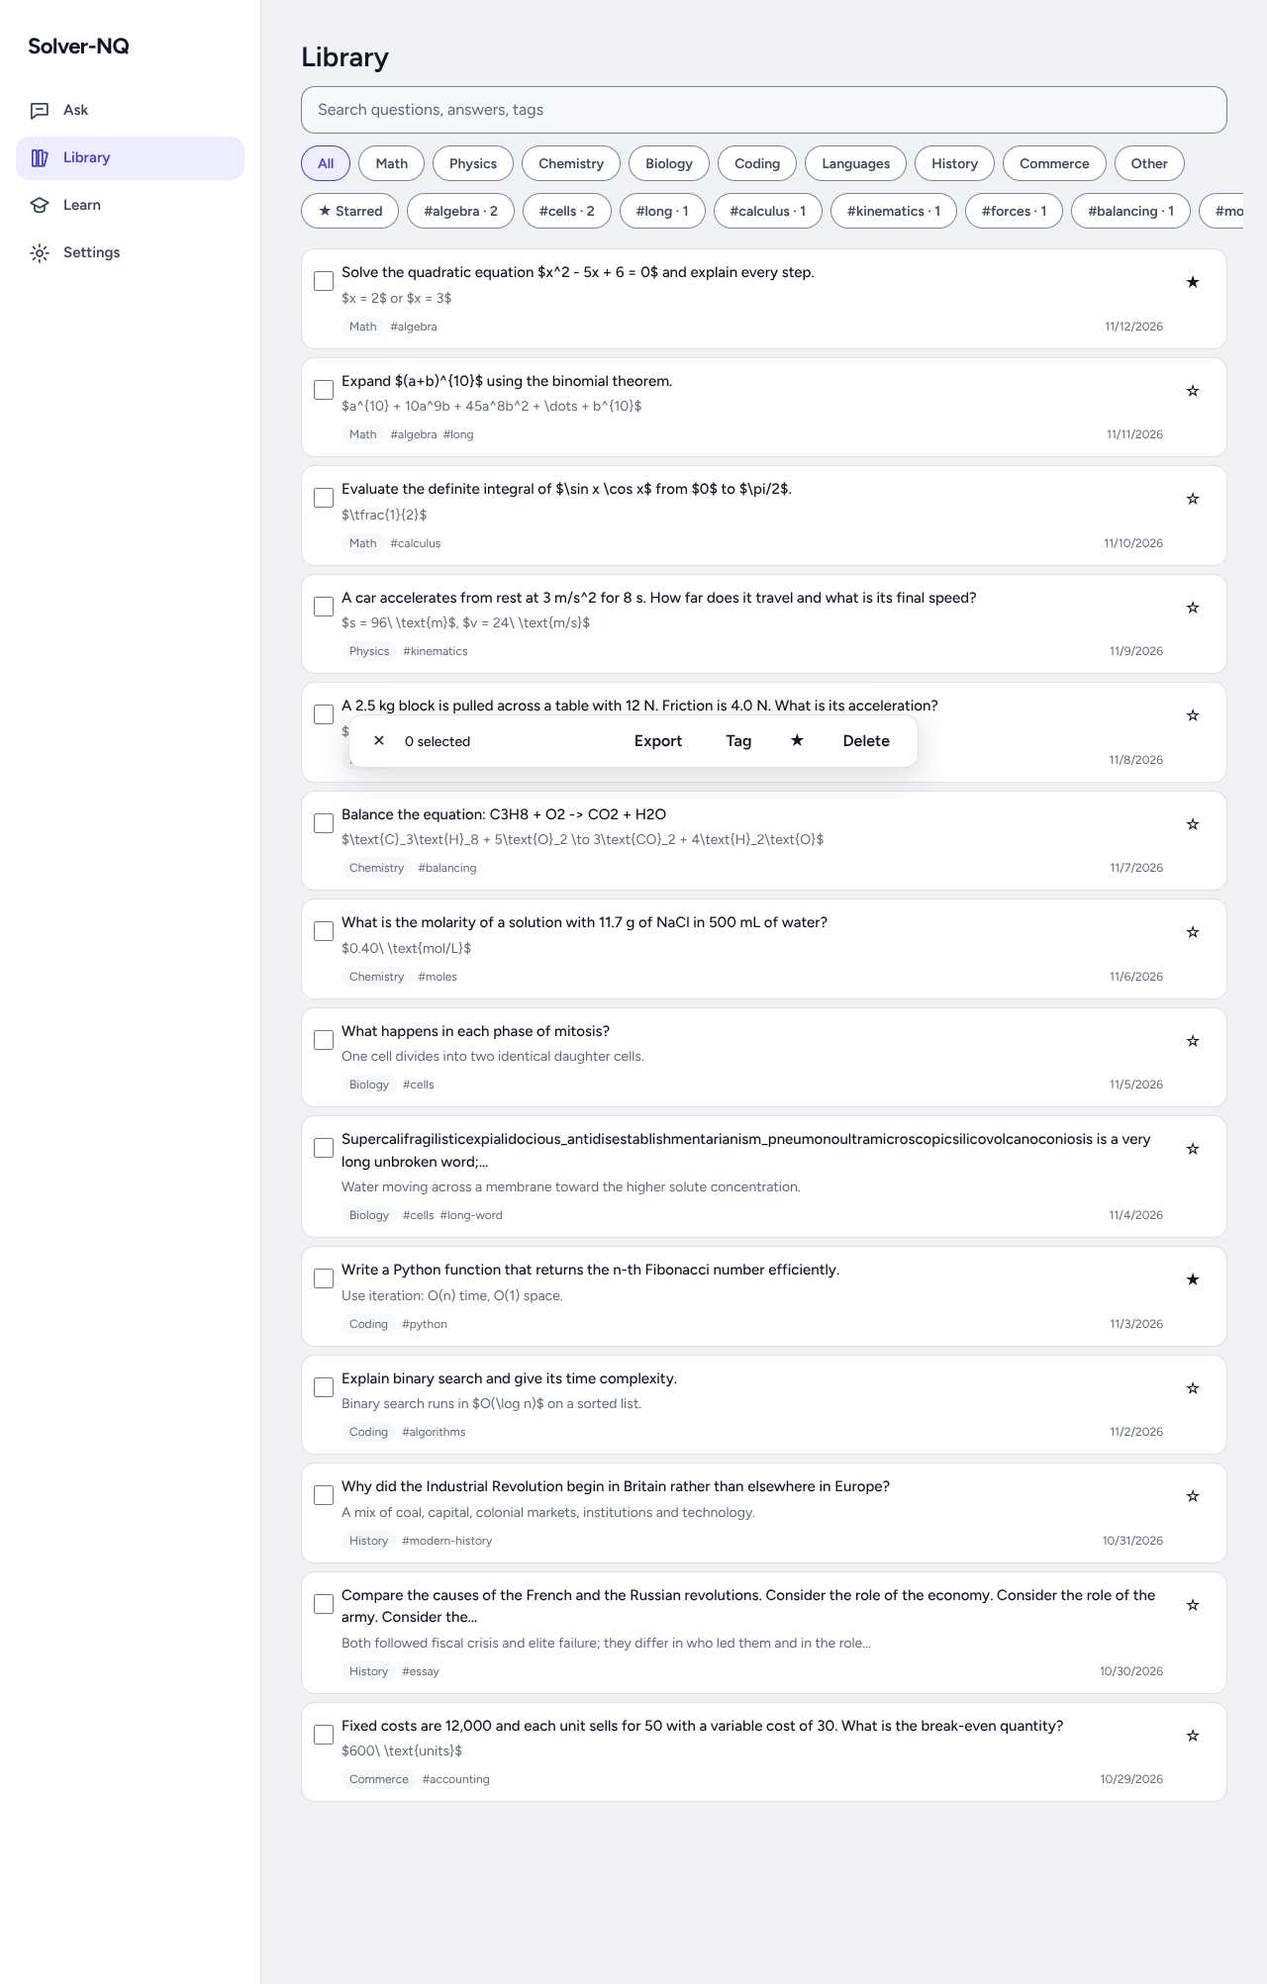
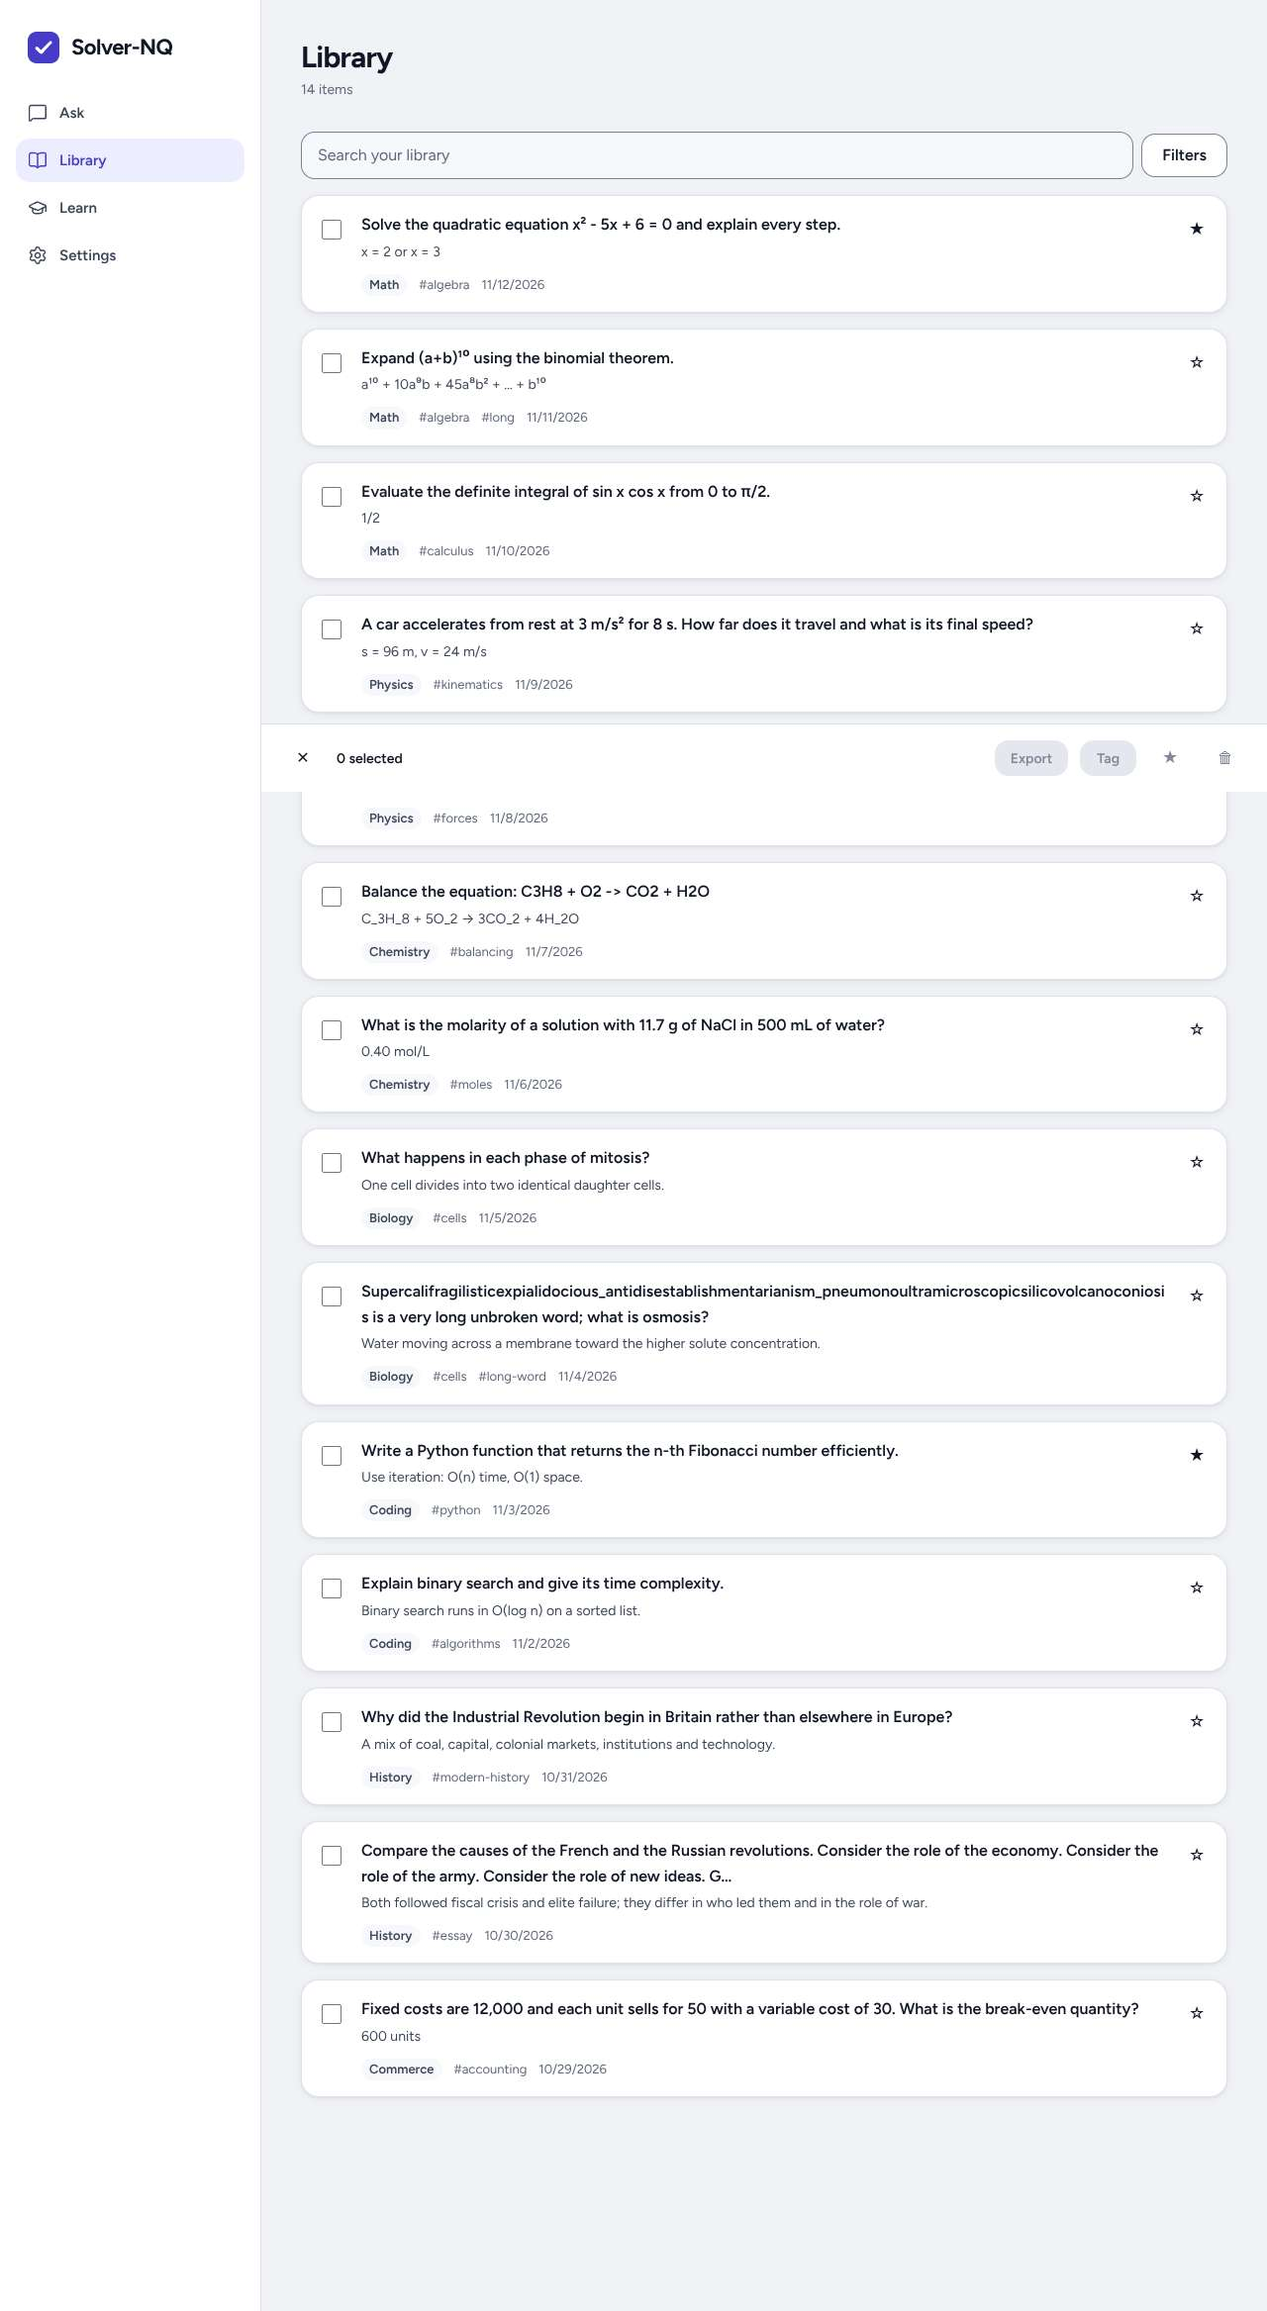
[AI-3] shots: onboarding flag fix, partial runs write images, full re-run (88 images, a11y, layout)

diff --git a/src/features/library/LibraryPage.tsx b/src/features/library/LibraryPage.tsx
@@ -47,7 +47,7 @@ export default function LibraryPage() {
       <Section>
         <Stack gap={4}>
           <Toolbar className="flex-nowrap">
-            <Input type="search" value={lib.query} onChange={e => lib.setQuery(e.target.value)} placeholder="Search questions, answers, tags"
+            <Input type="search" value={lib.query} onChange={e => lib.setQuery(e.target.value)} placeholder="Search your library"
               aria-label="Search library" className="min-w-0 flex-1" />
             <Button variant="secondary" className="shrink-0" onClick={() => setSheet('filters')} aria-label={active ? `Filters, ${active} active` : 'Filters'}>
               Filters{active > 0 && <span className="ml-2 rounded-full bg-accent px-2 text-caption text-white">{active}</span>}

diff --git a/docs/screenshots/layout.md b/docs/screenshots/layout.md
@@ -2,141 +2,86 @@
 
 Generated 2026-11-12 by `npm run shots`. Each finding lists the sizes/themes where it appears.
 
-14 route(s) with findings.
+12 route(s) with findings.
 
-## home
+## scan
 - **Tap target < 44px**
-  - button "Math" 67x36 _(phone/light, phone/dark, laptop/light, laptop/dark, w320/light, w360/light, ...)_
-  - button "Physics" 82x36 _(phone/light, phone/dark, laptop/light, laptop/dark, w320/light, w360/light, ...)_
-  - button "Chemistry" 100x36 _(phone/light, phone/dark, laptop/light, laptop/dark, w320/light, w360/light, ...)_
-  - button "Biology" 82x36 _(phone/light, phone/dark, laptop/light, laptop/dark, w320/light, w360/light, ...)_
-  - button "Coding" 80x36 _(phone/light, phone/dark, laptop/light, laptop/dark, w320/light, w360/light, ...)_
-  - button "Languages" 103x36 _(phone/light, phone/dark, laptop/light, laptop/dark, w320/light, w360/light, ...)_
-  - button "History" 81x36 _(phone/light, phone/dark, laptop/light, laptop/dark, w320/light, w360/light, ...)_
-  - button "Commerce" 105x36 _(phone/light, phone/dark, laptop/light, laptop/dark, w320/light, w360/light, ...)_
-
-## answer-learn
-- **Tap target < 44px**
-  - button "Remove star" 42x44 _(phone/light, phone/dark)_
-  - button "Tags" 42x44 _(phone/light, phone/dark)_
-  - button "Make flashcards" 42x44 _(phone/light, phone/dark)_
-  - button "Export" 42x44 _(phone/light, phone/dark)_
-  - button "Read aloud" 42x44 _(phone/light, phone/dark)_
-  - button "Share" 42x44 _(phone/light, phone/dark)_
-  - button "Copy" 42x44 _(phone/light, phone/dark)_
-  - button "Remove star" 29x44 _(laptop/light, laptop/dark)_
-
-## answer-answer
-- **Tap target < 44px**
-  - button "Save to starred" 42x44 _(phone/light, phone/dark)_
-  - button "Tags" 42x44 _(phone/light, phone/dark)_
-  - button "Make flashcards" 42x44 _(phone/light, phone/dark)_
-  - button "Export" 42x44 _(phone/light, phone/dark)_
-  - button "Read aloud" 42x44 _(phone/light, phone/dark)_
-  - button "Share" 42x44 _(phone/light, phone/dark)_
-  - button "Copy" 42x44 _(phone/light, phone/dark)_
-  - button "Save to starred" 29x44 _(laptop/light, laptop/dark)_
-
-## answer-wide-math
-- **Tap target < 44px**
-  - button "Save to starred" 42x44 _(phone/light, phone/dark)_
-  - button "Tags" 42x44 _(phone/light, phone/dark)_
-  - button "Make flashcards" 42x44 _(phone/light, phone/dark)_
-  - button "Export" 42x44 _(phone/light, phone/dark)_
-  - button "Read aloud" 42x44 _(phone/light, phone/dark)_
-  - button "Share" 42x44 _(phone/light, phone/dark)_
-  - button "Copy" 42x44 _(phone/light, phone/dark)_
-  - button "Save to starred" 29x44 _(laptop/light, laptop/dark)_
-
-## answer-code
-- **Tap target < 44px**
-  - button "Remove star" 42x44 _(phone/light, phone/dark)_
-  - button "Tags" 42x44 _(phone/light, phone/dark)_
-  - button "Make flashcards" 42x44 _(phone/light, phone/dark)_
-  - button "Export" 42x44 _(phone/light, phone/dark)_
-  - button "Read aloud" 42x44 _(phone/light, phone/dark)_
-  - button "Share" 42x44 _(phone/light, phone/dark)_
-  - button "Copy" 42x44 _(phone/light, phone/dark)_
-  - button "Remove star" 29x44 _(laptop/light, laptop/dark)_
+  - button "Scan languages" 131x36 _(phone/light, phone/dark, laptop/light, laptop/dark, w320/light, w360/light, ...)_
 
 ## answer-long-word
 - **Tap target < 44px**
-  - button "Save to starred" 42x44 _(phone/light, phone/dark)_
-  - button "Tags" 42x44 _(phone/light, phone/dark)_
-  - button "Make flashcards" 42x44 _(phone/light, phone/dark)_
-  - button "Export" 42x44 _(phone/light, phone/dark)_
-  - button "Read aloud" 42x44 _(phone/light, phone/dark)_
-  - button "Share" 42x44 _(phone/light, phone/dark)_
-  - button "Copy" 42x44 _(phone/light, phone/dark)_
-  - button "Save to starred" 29x44 _(laptop/light, laptop/dark)_
-
-## answer-mismatch
-- **Tap target < 44px**
-  - button "Save to starred" 42x44 _(phone/light, phone/dark)_
-  - button "Tags" 42x44 _(phone/light, phone/dark)_
-  - button "Make flashcards" 42x44 _(phone/light, phone/dark)_
-  - button "Export" 42x44 _(phone/light, phone/dark)_
-  - button "Read aloud" 42x44 _(phone/light, phone/dark)_
-  - button "Share" 42x44 _(phone/light, phone/dark)_
-  - button "Copy" 42x44 _(phone/light, phone/dark)_
-  - button "Save to starred" 29x44 _(laptop/light, laptop/dark)_
+  - button "Show more" 104x36 _(phone/light, phone/dark, w320/light, w360/light, w375/light, w412/light)_
 
 ## library
 - **Tap target < 44px**
-  - button "All" 50x36 _(phone/light, phone/dark, laptop/light, laptop/dark, w320/light, w360/light, ...)_
-  - button "Math" 67x36 _(phone/light, phone/dark, laptop/light, laptop/dark, w320/light, w360/light, ...)_
-  - button "Physics" 82x36 _(phone/light, phone/dark, laptop/light, laptop/dark, w320/light, w360/light, ...)_
-  - button "Chemistry" 100x36 _(phone/light, phone/dark, laptop/light, laptop/dark, w320/light, w360/light, ...)_
-  - button "Biology" 82x36 _(phone/light, phone/dark, laptop/light, laptop/dark, w320/light, w360/light, ...)_
-  - button "Coding" 80x36 _(phone/light, phone/dark, laptop/light, laptop/dark, w320/light, w360/light, ...)_
-  - button "Languages" 103x36 _(phone/light, phone/dark, laptop/light, laptop/dark, w320/light, w360/light, ...)_
-  - button "History" 81x36 _(phone/light, phone/dark, laptop/light, laptop/dark, w320/light, w360/light, ...)_
+  - button "Select" 74x36 _(phone/light, phone/dark, laptop/light, laptop/dark, w320/light, w360/light, ...)_
 
 ## library-select
 - **Tap target < 44px**
-  - button "All" 50x36 _(phone/light, phone/dark, laptop/light, laptop/dark, w320/light, w360/light, ...)_
-  - button "Math" 67x36 _(phone/light, phone/dark, laptop/light, laptop/dark, w320/light, w360/light, ...)_
-  - button "Physics" 82x36 _(phone/light, phone/dark, laptop/light, laptop/dark, w320/light, w360/light, ...)_
-  - button "Chemistry" 100x36 _(phone/light, phone/dark, laptop/light, laptop/dark, w320/light, w360/light, ...)_
-  - button "Biology" 82x36 _(phone/light, phone/dark, laptop/light, laptop/dark, w320/light, w360/light, ...)_
-  - button "Coding" 80x36 _(phone/light, phone/dark, laptop/light, laptop/dark, w320/light, w360/light, ...)_
-  - button "Languages" 103x36 _(phone/light, phone/dark, laptop/light, laptop/dark, w320/light, w360/light, ...)_
-  - button "History" 81x36 _(phone/light, phone/dark, laptop/light, laptop/dark, w320/light, w360/light, ...)_
-- **Overflow**
-  - button "Delete" right=380 (vw 320) _(w320/light)_
-  - button "Delete" right=380 (vw 360) _(w360/light)_
-  - button "Delete" right=380 (vw 375) _(w375/light)_
-
-## learn
-- **Tap target < 44px**
-  - a "View stats" 71x23 _(phone/light, phone/dark, laptop/light, laptop/dark, w320/light, w360/light, ...)_
-  - a "Manage cards" 94x23 _(phone/light, phone/dark, laptop/light, laptop/dark, w320/light, w360/light, ...)_
+  - input "Select: Solve the quadratic " 20x20 _(phone/light, phone/dark, laptop/light, laptop/dark, w320/light, w360/light, ...)_
+  - input "Select: Expand (a+b)¹⁰ using" 20x20 _(phone/light, phone/dark, laptop/light, laptop/dark, w320/light, w360/light, ...)_
+  - input "Select: Evaluate the definit" 20x20 _(phone/light, phone/dark, laptop/light, laptop/dark, w320/light, w360/light, ...)_
+  - input "Select: A car accelerates fr" 20x20 _(phone/light, phone/dark, laptop/light, laptop/dark, w320/light, w360/light, ...)_
+  - input "Select: A 2.5 kg block is pu" 20x20 _(phone/light, phone/dark, laptop/light, laptop/dark, w320/light, w360/light, ...)_
+  - input "Select: Balance the equation" 20x20 _(phone/light, phone/dark, laptop/light, laptop/dark, w320/light, w360/light, ...)_
+  - input "Select: What is the molarity" 20x20 _(phone/light, phone/dark, laptop/light, laptop/dark, w320/light, w360/light, ...)_
+  - input "Select: What happens in each" 20x20 _(phone/light, phone/dark, laptop/light, laptop/dark, w320/light, w360/light, ...)_
 
 ## learn-quiz
 - **Tap target < 44px**
   - input "INPUT" 20x20 _(phone/light, phone/dark, laptop/light, laptop/dark, w320/light, w360/light, ...)_
 
 ## learn-stats
-- **Text < 12px**
-  - "30" 9px _(phone/light, phone/dark, laptop/light, laptop/dark, w320/light, w360/light, ...)_
-  - "19" 9px _(phone/light, phone/dark, laptop/light, laptop/dark, w320/light, w360/light, ...)_
-  - "14" 9px _(phone/light, phone/dark, laptop/light, laptop/dark, w320/light, w360/light, ...)_
-  - "18" 9px _(phone/light, phone/dark, laptop/light, laptop/dark, w320/light, w360/light, ...)_
-  - "13" 9px _(phone/light, phone/dark, laptop/light, laptop/dark, w320/light, w360/light, ...)_
-  - "11" 9px _(phone/light, phone/dark, laptop/light, laptop/dark, w320/light, w360/light, ...)_
+- **Tap target < 44px**
+  - a "Back to Learn" 350x19 _(phone/light, phone/dark)_
+  - a "Back to Learn" 936x19 _(laptop/light, laptop/dark)_
+  - a "Back to Learn" 280x19 _(w320/light)_
+  - a "Back to Learn" 320x19 _(w360/light)_
+  - a "Back to Learn" 335x19 _(w375/light)_
+  - a "Back to Learn" 372x19 _(w412/light)_
+  - a "Back to Learn" 390x19 _(w430/light)_
+  - a "Back to Learn" 600x19 _(land640x360/light)_
 
 ## export
 - **Tap target < 44px**
   - a "Open library" 138x19 _(phone/light, phone/dark, laptop/light, laptop/dark, w320/light, w360/light, ...)_
 
+## settings
+- **Tap target < 44px**
+  - a "Show setup guide" 114x17 _(phone/light, phone/dark, laptop/light, laptop/dark, w360/light, w375/light, ...)_
+  - input "INPUT" 20x20 _(phone/light, phone/dark, laptop/light, laptop/dark, w320/light, w360/light, ...)_
+  - a "Show setup guide" 228x38 _(w320/light)_
+
 ## graph
 - **Tap target < 44px**
   - input "INPUT" 20x20 _(phone/light, phone/dark, laptop/light, laptop/dark, w320/light, w360/light, ...)_
-- **Text < 12px**
-  - "-2" 11px _(phone/light, phone/dark, laptop/light, laptop/dark, w320/light, w360/light, ...)_
-  - "-4" 11px _(phone/light, phone/dark, laptop/light, laptop/dark, w320/light, w360/light, ...)_
-  - "-10" 11px _(laptop/light, laptop/dark)_
-  - "-8" 11px _(laptop/light, laptop/dark)_
-  - "-6" 11px _(laptop/light, laptop/dark, land640x360/light)_
-  - "10" 11px _(laptop/light, laptop/dark)_
+
+## notes
+- **Tap target < 44px**
+  - button "cells" 62x36 _(phone/light, phone/dark, laptop/light, laptop/dark, w320/light, w360/light, ...)_
+  - button "exam" 68x36 _(phone/light, phone/dark, laptop/light, laptop/dark, w320/light, w360/light, ...)_
+  - button "forces" 74x36 _(phone/light, phone/dark, laptop/light, laptop/dark, w320/light, w360/light, ...)_
+  - button "modern-history" 133x36 _(phone/light, phone/dark, laptop/light, laptop/dark, w320/light, w360/light, ...)_
+
+## design
+- **Tap target < 44px**
+  - button "light" 63x36 _(phone/light, phone/dark, laptop/light, laptop/dark, w320/light, w360/light, ...)_
+  - button "dark" 62x36 _(phone/light, phone/dark, laptop/light, laptop/dark, w320/light, w360/light, ...)_
+  - button "Small 36" 88x36 _(phone/light, phone/dark, laptop/light, laptop/dark, w320/light, w360/light, ...)_
+  - button "Selected chip" 121x36 _(phone/light, phone/dark, laptop/light, laptop/dark, w320/light, w360/light, ...)_
+  - button "Chip" 64x36 _(phone/light, phone/dark, laptop/light, laptop/dark, w320/light, w360/light, ...)_
+  - input "INPUT" 20x20 _(phone/light, phone/dark, laptop/light, laptop/dark, w320/light, w360/light, ...)_
+  - button "Toast" 69x36 _(phone/light, phone/dark, laptop/light, laptop/dark, w320/light, w360/light, ...)_
+  - button "Dialog" 74x36 _(phone/light, phone/dark, laptop/light, laptop/dark, w320/light, w360/light, ...)_
+
+## plan
+- **Tap target < 44px**
+  - a "Review your flashcards (2 du" 462x26 _(laptop/light, laptop/dark)_
+  - a "Revisit your saved Physics q" 462x26 _(laptop/light, laptop/dark)_
+  - button "Thu1240m" 37x78 _(w320/light)_
+  - button "Fri1340m" 37x78 _(w320/light)_
+  - button "Sat1440m" 37x78 _(w320/light)_
+  - button "Sun1540m" 37x78 _(w320/light)_
+  - button "Mon1640m" 37x78 _(w320/light)_
+  - button "Tue1740m" 37x78 _(w320/light)_
 

diff --git a/docs/screenshots/a11y.md b/docs/screenshots/a11y.md
@@ -2,18 +2,18 @@
 
 Generated 2026-11-12 by `npm run shots`. Reported, never failing.
 
-Scanned 19 route(s); 10 with violations.
+Scanned 22 route(s); 9 with violations.
 
 | Route | Violations | Worst |
 |---|---|---|
 | home | 0 | - |
 | scan | 0 | - |
-| answer-learn | 1 | moderate |
-| answer-answer | 1 | moderate |
-| answer-wide-math | 1 | moderate |
+| answer-learn | 1 | serious |
+| answer-answer | 1 | serious |
+| answer-wide-math | 2 | serious |
 | answer-code | 2 | serious |
-| answer-long-word | 1 | moderate |
-| answer-mismatch | 1 | moderate |
+| answer-long-word | 1 | serious |
+| answer-mismatch | 1 | serious |
 | library | 0 | - |
 | library-select | 0 | - |
 | learn | 1 | serious |
@@ -24,26 +24,30 @@ Scanned 19 route(s); 10 with violations.
 | export | 1 | moderate |
 | settings | 0 | - |
 | graph | 0 | - |
-| backup | 1 | moderate |
+| backup | 0 | - |
+| notes | 0 | - |
+| plan | 0 | - |
+| design | 0 | - |
 
 ## answer-learn
-- **moderate** `page-has-heading-one`: Page should contain a level-one heading (4 element(s); phone/light, phone/dark, laptop/light, laptop/dark). e.g. `html`
+- **serious** `label-content-name-mismatch`: Elements must have their visible text as part of their accessible name (4 element(s); phone/light, phone/dark). e.g. `button[aria-label="Remove star"]`
 
 ## answer-answer
-- **moderate** `page-has-heading-one`: Page should contain a level-one heading (4 element(s); phone/light, phone/dark, laptop/light, laptop/dark). e.g. `html`
+- **serious** `label-content-name-mismatch`: Elements must have their visible text as part of their accessible name (2 element(s); phone/light, phone/dark). e.g. `button[aria-label="Make flashcards"]`
 
 ## answer-wide-math
-- **moderate** `page-has-heading-one`: Page should contain a level-one heading (4 element(s); phone/light, phone/dark, laptop/light, laptop/dark). e.g. `html`
+- **serious** `label-content-name-mismatch`: Elements must have their visible text as part of their accessible name (2 element(s); phone/light, phone/dark). e.g. `button[aria-label="Make flashcards"]`
+- **serious** `scrollable-region-focusable`: Scrollable region must have keyboard access (4 element(s); phone/light, phone/dark, laptop/light, laptop/dark). e.g. `.katex-display`
 
 ## answer-code
+- **serious** `label-content-name-mismatch`: Elements must have their visible text as part of their accessible name (4 element(s); phone/light, phone/dark). e.g. `button[aria-label="Remove star"]`
 - **serious** `scrollable-region-focusable`: Scrollable region must have keyboard access (4 element(s); phone/light, phone/dark, laptop/light, laptop/dark). e.g. `pre`
-- **moderate** `page-has-heading-one`: Page should contain a level-one heading (4 element(s); phone/light, phone/dark, laptop/light, laptop/dark). e.g. `html`
 
 ## answer-long-word
-- **moderate** `page-has-heading-one`: Page should contain a level-one heading (4 element(s); phone/light, phone/dark, laptop/light, laptop/dark). e.g. `html`
+- **serious** `label-content-name-mismatch`: Elements must have their visible text as part of their accessible name (2 element(s); phone/light, phone/dark). e.g. `button[aria-label="Make flashcards"]`
 
 ## answer-mismatch
-- **moderate** `page-has-heading-one`: Page should contain a level-one heading (4 element(s); phone/light, phone/dark, laptop/light, laptop/dark). e.g. `html`
+- **serious** `label-content-name-mismatch`: Elements must have their visible text as part of their accessible name (2 element(s); phone/light, phone/dark). e.g. `button[aria-label="Make flashcards"]`
 
 ## learn
 - **serious** `label-content-name-mismatch`: Elements must have their visible text as part of their accessible name (24 element(s); phone/light, phone/dark, laptop/light, laptop/dark). e.g. `a[aria-label="Review math deck"]`
@@ -52,8 +56,5 @@ Scanned 19 route(s); 10 with violations.
 - **moderate** `page-has-heading-one`: Page should contain a level-one heading (4 element(s); phone/light, phone/dark, laptop/light, laptop/dark). e.g. `html`
 
 ## export
-- **moderate** `page-has-heading-one`: Page should contain a level-one heading (4 element(s); phone/light, phone/dark, laptop/light, laptop/dark). e.g. `html`
-
-## backup
 - **moderate** `page-has-heading-one`: Page should contain a level-one heading (4 element(s); phone/light, phone/dark, laptop/light, laptop/dark). e.g. `html`
 

diff --git a/docs/status/AI-3.md b/docs/status/AI-3.md
@@ -7,7 +7,7 @@
 - Heads-up for all: the old `docs/audit/tools/layout-audit.mjs` is now superseded by `npm run shots`.
 
 ## Remaining (Phase 2)
-- Re-run `npm run shots` and review `/library` and `/backup` screenshots + `layout.md` after Library v2 / Backup v2 (not yet re-captured).
+- Everyone: full `npm run shots` re-run is committed (88 images: now includes notes, plan, design, onboarding at `#/welcome`). Re-run for your routes after your layout pass: `npm run shots -- /yourroute`.
 - P2: replace remaining `any` (none found in my folders), keep reviewing keyboard use.
 
 ## Phase 2 P1 done
